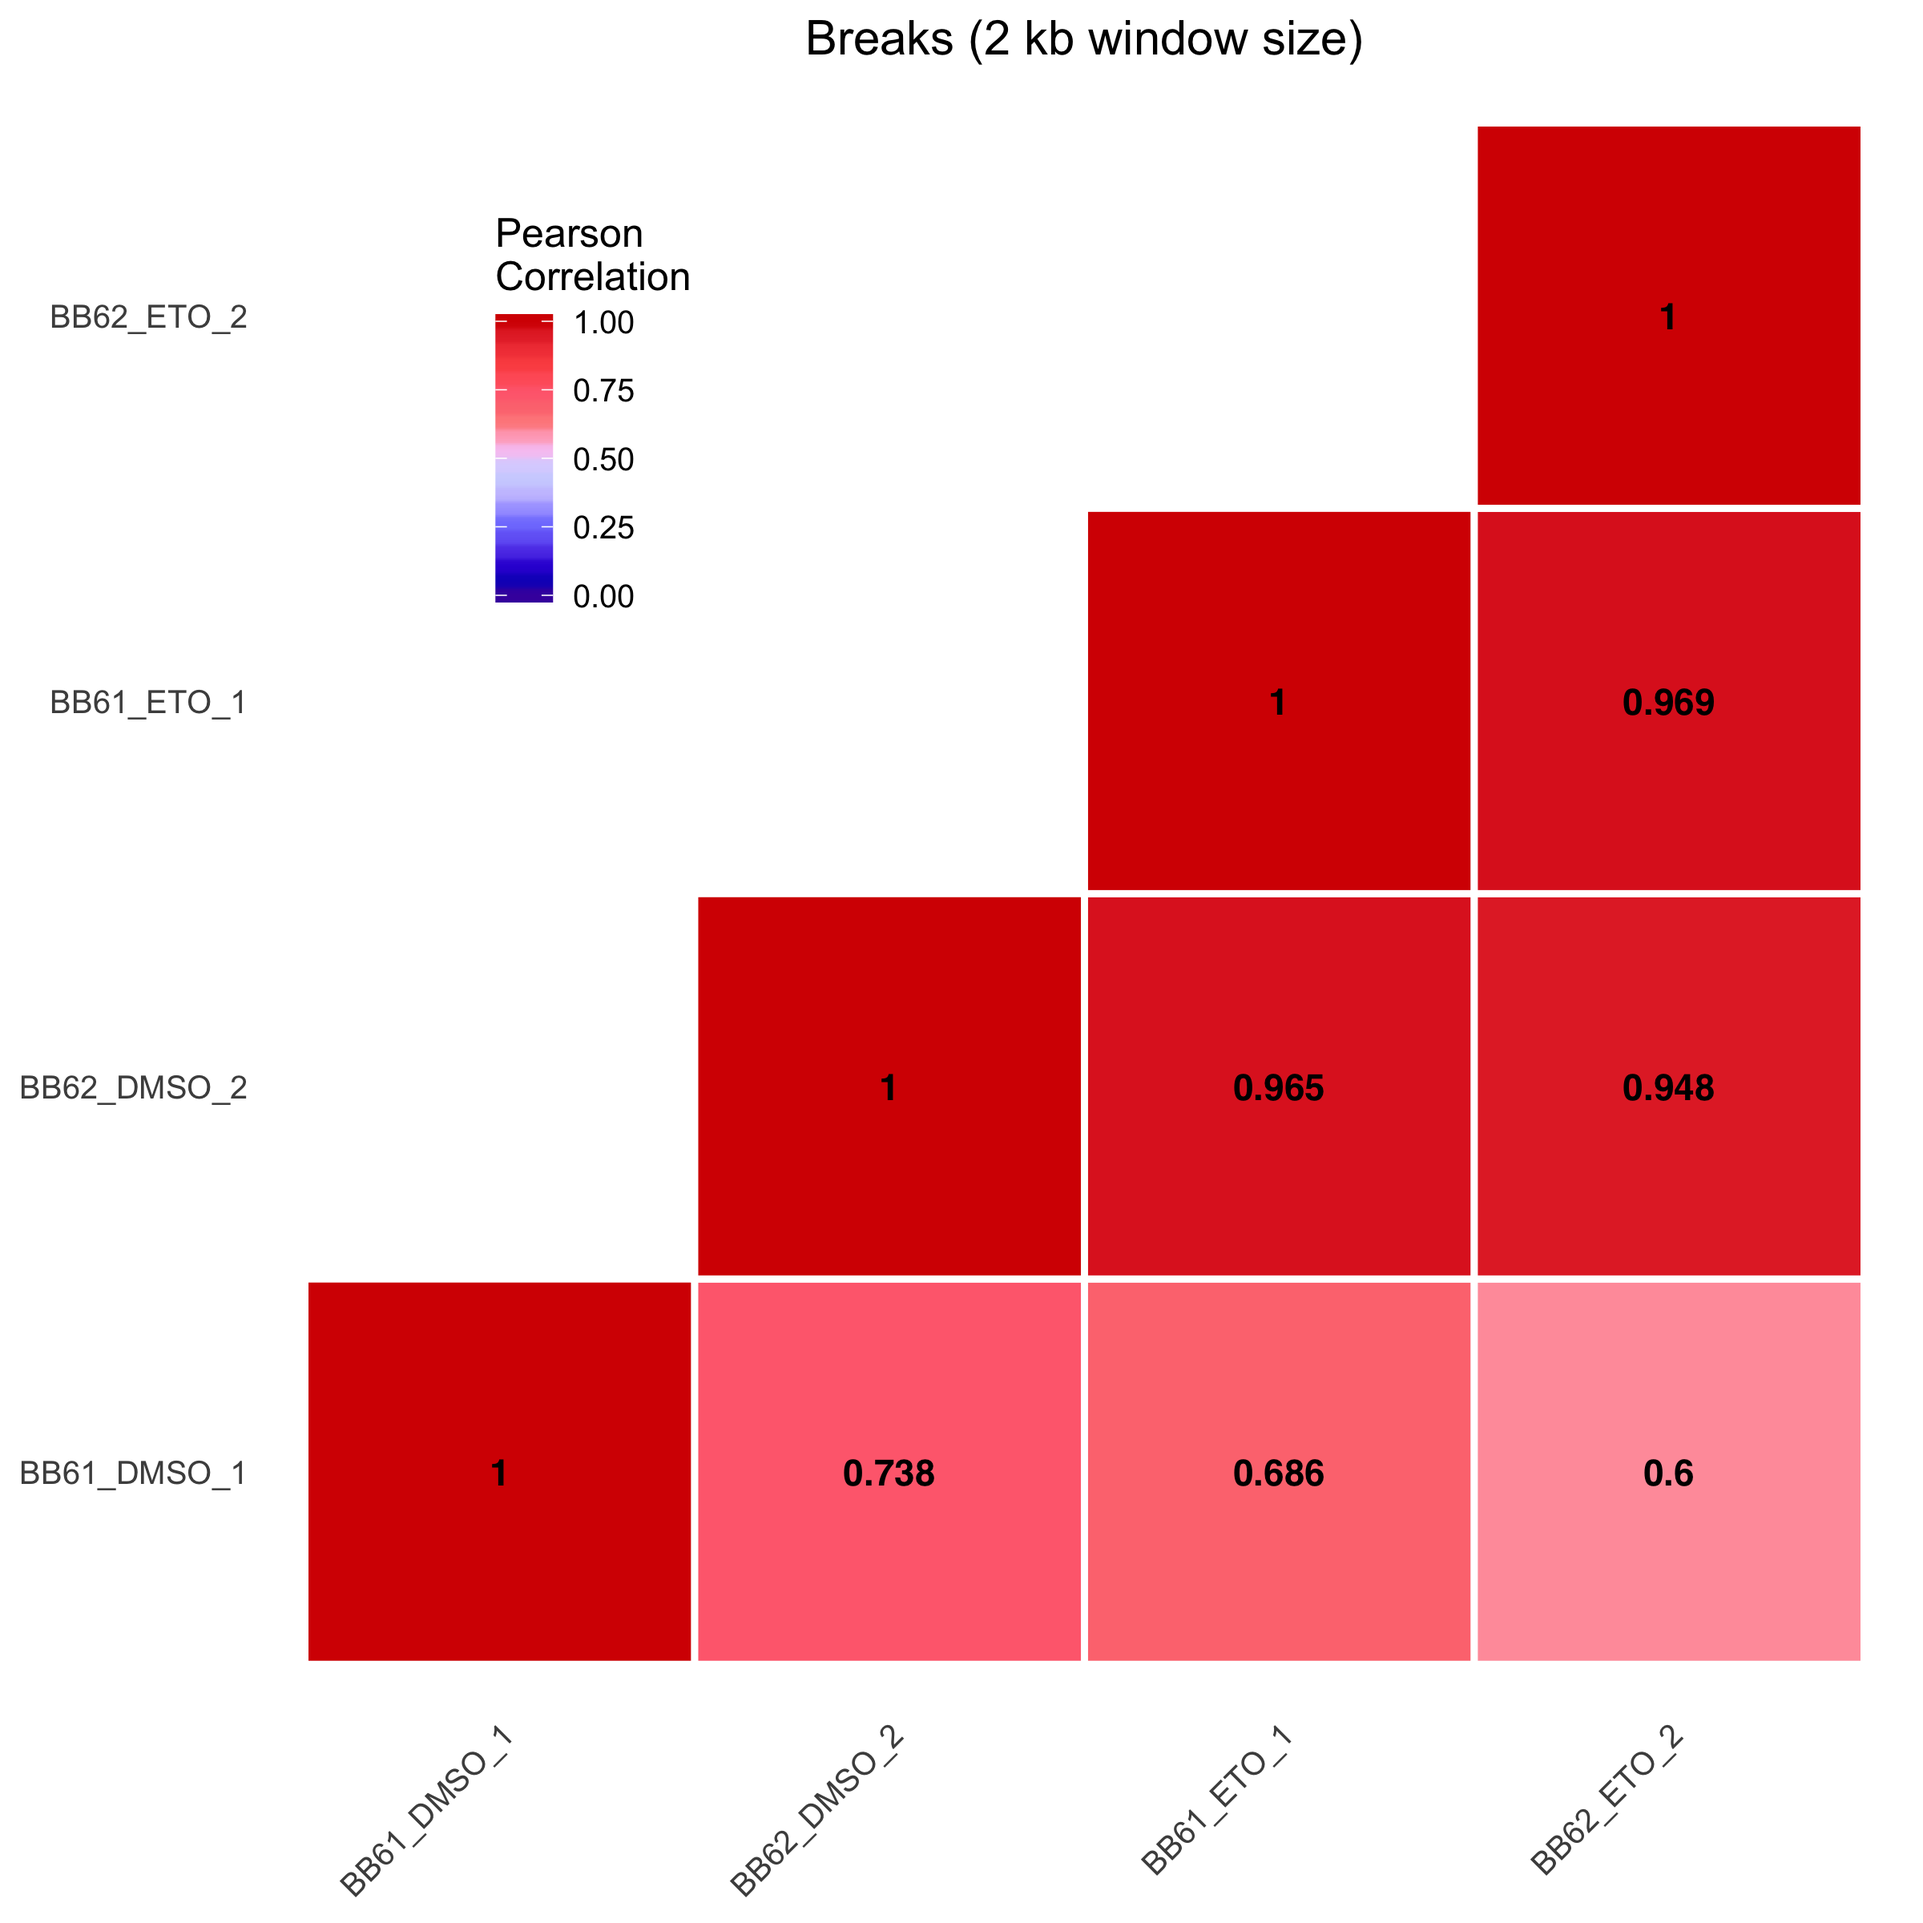
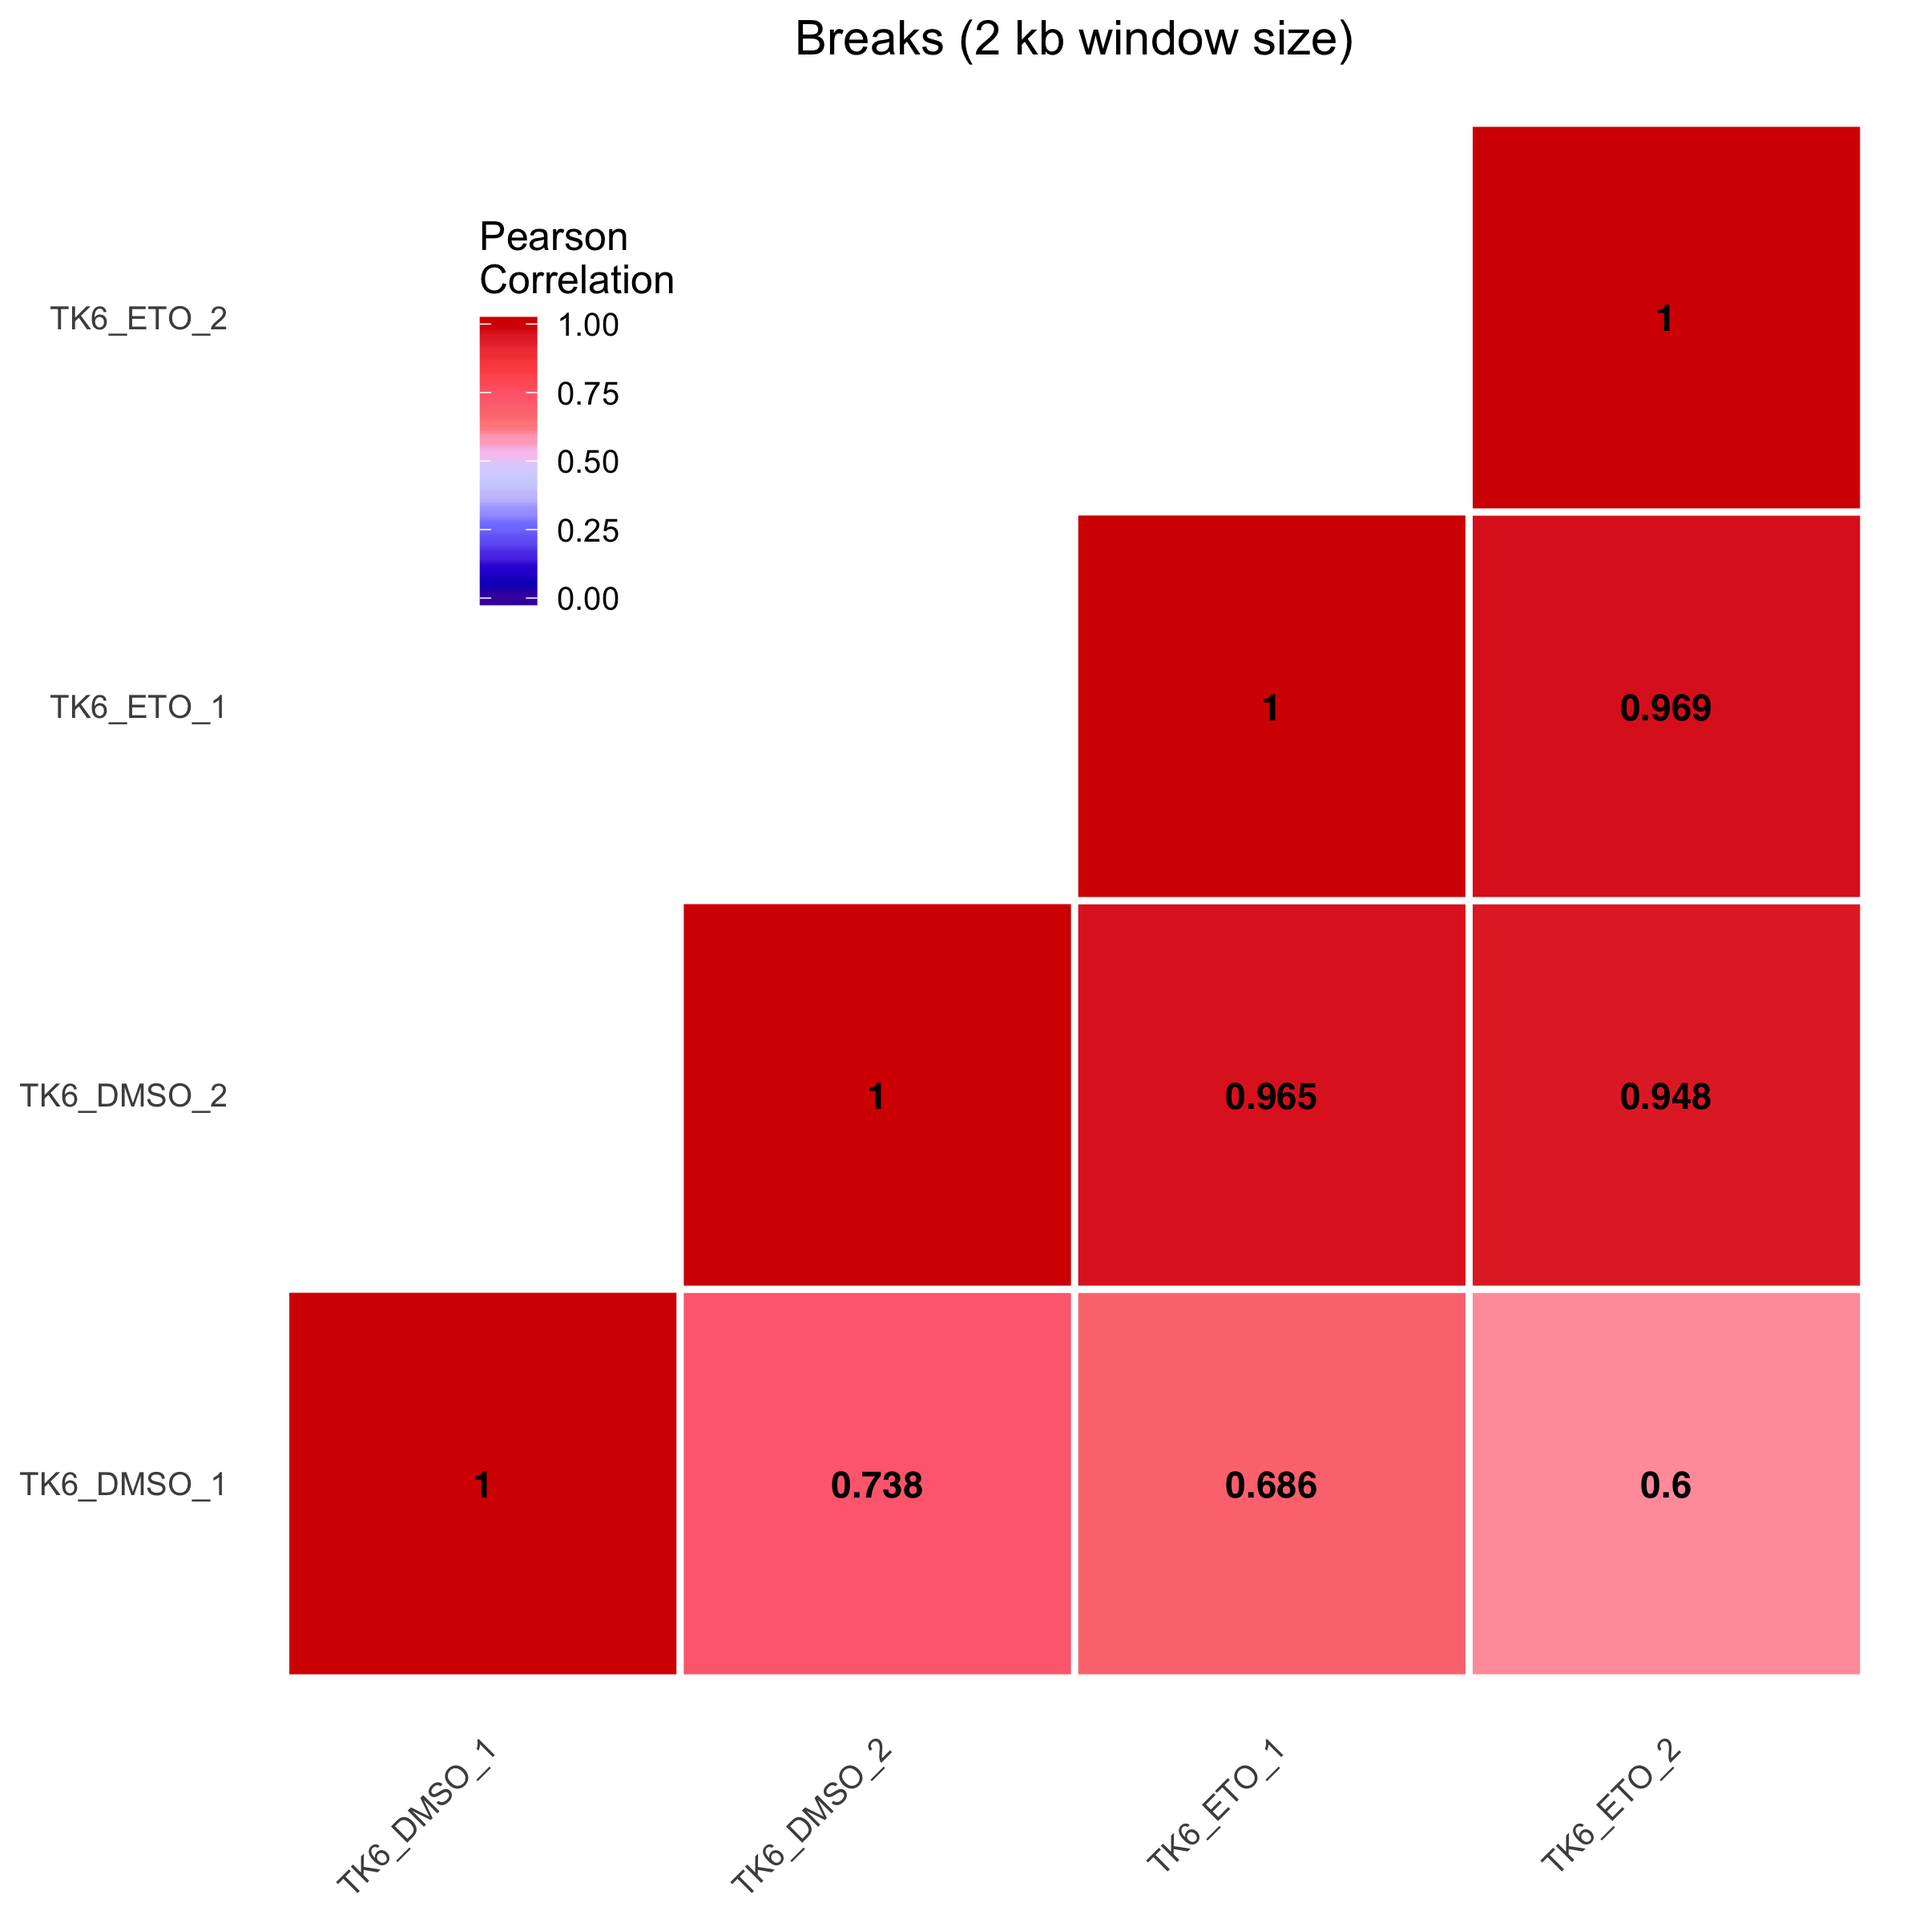
Updated names and circos

diff --git a/README_human.md b/README_human.md
@@ -1,4 +1,4 @@
-Tutorial on BLISS Downstream Analysis (human)
+Tutorial on sBLISS Downstream Analysis (human)
 ================
 
 Step 1: Load the required packages:
@@ -53,8 +53,8 @@ Step 3: Prepare the sample table, which will be our internal reference,
 and make sure the paths and filenames are correct:
 
 ``` r
-sampleTable = data.table(name = c("BB61_DMSO_1", "BB62_DMSO_2", "BB61_ETO_1", "BB62_ETO_2"),
-                         Experiment = c("BB61", "BB62", "BB61", "BB62"),
+sampleTable = data.table(name = c("TK6_DMSO_1", "TK6_DMSO_2", "TK6_ETO_1", "TK6_ETO_2"),
+                         Batch = c("1", "2", "1", "2"),
                          Treatment = c("DMSO", "DMSO", "ETO", "ETO"),
                          Replicate = c("1", "2", "1", "2"),
                          path=c("./data/BB61_TK6DMSOrep1_CATCACGC_chr-loc-countDifferentUMI.bed.gz",
@@ -74,7 +74,7 @@ blacklist = fread(cmd=paste("gunzip -c", blacklist),
 blacklist[, `:=`(seqnames = gsub("chr", "", seqnames),  start = start+1, end = end+1)]
 setkeyv(blacklist, colnames(blacklist))
 
-# Load the BLISS samples
+# Load the sBLISS samples
 data = lapply(with(sampleTable, setNames(path, name)), 
               function(x){
                   tmp = fread(cmd=paste("gunzip -c", x), showProgress=FALSE,
@@ -98,7 +98,7 @@ pl = rbindlist(data, idcol="name")
 pl = pl[, lapply(breaks, function(x) .SD[score>=x, .N]), by="name"]
 pl = melt.data.table(pl, id.vars="name")
 pl[, variable := as.numeric(gsub("V", "", variable))]
-pl[, c("Experiment", "Treatment", "Replicate") := tstrsplit(name, "_")]
+pl[, c("Batch", "Treatment", "Replicate") := tstrsplit(name, "_")]
 
 fig1a = ggplot(pl, aes(x=variable, y=value, col=Treatment, shape=Replicate)) +
     ggtitle("TK6 Cells") +
@@ -261,36 +261,41 @@ pl = lapply(data,
 
 pl = lapply(pl,
             function(x){
-                x[, cpm := count/sum(count)*1e6]
-                x[cpm>1e3, cpm := 1e3]
-                return(x[, .(chr=paste0("chr", seqnames), start, end, value = cpm)])
-                })
+                M = mean(x[, count])
+                SD = sd(x[, count])
+                x[, value := count]
+                x[value>(M+3*SD), value := (M+3*SD)]
+                return(x[, .(chr=paste0("chr", seqnames), start, end, value)])
+            })
+
 
 png(filename=file.path("images", "fig1d_human.png"), units="in", width=8, height=8, res=300)
     sel_col = get_palette("Paired", nrow(sampleTable))
     lab_col = c()
+    toplim = ceiling(max(sapply(pl, function(x) x[, max(value)]))/1e3)*1e3
     i = 1
     circos.initializeWithIdeogram(species = genome, chromosome.index = paste0("chr", chromosomes))
-    for( treatment in sampleTable[, rev(unique(Treatment))] ){
-        circos.track(factors=paste0("chr", chromosomes), ylim=c(0, 1000), track.height = 0.1)
+    for( batch in sampleTable[, unique(Batch)] ){
+        circos.track(factors=paste0("chr", chromosomes), ylim=c(0, toplim), track.height = 0.15)
         ii = 1
-        for( id in sampleTable[Treatment==treatment, name] ){
+        for( id in sampleTable[Batch==batch, name] ){
             for( chrom in pl[[id]][, unique(chr)] )
-            circos.genomicLines(region=pl[[id]][chr==chrom,], value=pl[[id]][chr==chrom,],
-                                numeric.column=4, col = sel_col[2*(i-1)+ii], track.index=i+2,
-                                sector.index=chrom)
+                circos.genomicLines(region=pl[[id]][chr==chrom,], value=pl[[id]][chr==chrom,],
+                                    numeric.column=4, col = sel_col[2*(i-1)+ii], track.index=i+2,
+                                    sector.index=chrom)
             ii = ii+1
-            lab_col = append(lab_col, paste(treatment, sampleTable[name==id, Replicate]))
+            treatment = paste(strsplit(id, "_")[[1]][2:3], collapse="_")
+            lab_col = append(lab_col, treatment)
         }
         i = i+1
     }
     text(0, 0, "TK6\nDSBs Genomic Profile", cex = 0.8)
     lgd_lines = Legend(at = lab_col, type = "lines", 
-                   legend_gp = gpar(col = sel_col, lwd = 2, fill="white"),
-                   direction = "horizontal", nrow = 1)
+                       legend_gp = gpar(col = sel_col, lwd = 2, fill="white"),
+                       direction = "horizontal", nrow = 1)
     draw(packLegend(lgd_lines), y = unit(6, "mm"), just = "center")
     circos.clear()
-invisible(dev.off())
+dev.off()
 ```
 
 | ![](images/fig1d_human.png) |

diff --git a/README_mouse.md b/README_mouse.md
@@ -1,4 +1,4 @@
-Tutorial on BLISS Downstream Analysis (mouse)
+Tutorial on sBLISS Downstream Analysis (mouse)
 ================
 
 Step 1: Load the required packages:
@@ -53,9 +53,9 @@ Step 3: Prepare the sample table, which will be our internal reference,
 and make sure the paths and filenames are correct:
 
 ``` r
-sampleTable = data.table(name = c("BB70_neg_rep1", "BB70_mid_rep1", "BB70_high_rep1",
-                                  "BB72_neg_rep2", "BB72_mid_rep2", "BB72_high_rep2"),
-                        Experiment = rep(c("BB70", "BB72"), each=3),
+sampleTable = data.table(name = c("Epatocyte_neg_rep1", "Epatocyte_mid_rep1", "Epatocyte_high_rep1",
+                                  "Epatocyte_neg_rep2", "Epatocyte_mid_rep2", "Epatocyte_high_rep2"),
+                        Batch = rep(c("1", "2"), each=3),
                         Treatment = rep(c("neg", "mid", "high"), 2),
                         Replicate = rep(c("1", "2"), each=3),
                         path=c("./data/BB70_CD73negM1E2911_GTCGTCGC_chr-loc-countDifferentUMI.bed.gz",
@@ -77,7 +77,7 @@ blacklist = fread(cmd=paste("gunzip -c", blacklist),
 blacklist[, `:=`(seqnames = gsub("chr", "", seqnames),  start = start+1, end = end+1)]
 setkeyv(blacklist, colnames(blacklist))
 
-# Load the BLISS samples
+# Load the sBLISS samples
 data = lapply(with(sampleTable, setNames(path, name)), 
               function(x){
                   tmp = fread(cmd=paste("gunzip -c", x), showProgress=FALSE,
@@ -102,7 +102,7 @@ pl = rbindlist(data, idcol="name")
 pl = pl[, lapply(breaks, function(x) .SD[score>=x, .N]), by="name"]
 pl = melt.data.table(pl, id.vars="name")
 pl[, variable := as.numeric(gsub("V", "", variable))]
-pl[, c("Experiment", "Treatment", "Replicate") := tstrsplit(name, "_")]
+pl[, c("Batch", "Treatment", "Replicate") := tstrsplit(name, "_")]
 
 fig1a = ggplot(pl, aes(x=variable, y=value, col=Treatment, shape=Replicate)) +
     ggtitle("Enterocytes") +
@@ -260,26 +260,30 @@ pl = lapply(data,
 
 pl = lapply(pl,
             function(x){
-                x[, cpm := count/sum(count)*1e6]
-                x[cpm>1e3, cpm := 1e3]
-                return(x[, .(chr=paste0("chr", seqnames), start, end, value = cpm)])
-                })
+                M = mean(x[, count])
+                SD = sd(x[, count])
+                x[, value := count]
+                x[value>(M+3*SD), value := (M+3*SD)]
+                return(x[, .(chr=paste0("chr", seqnames), start, end, value)])
+            })
 
 png(filename=file.path("images", "fig1d_mouse.png"), units="in", width=8, height=8, res=300)
-    sel_col = get_palette("Paired", nrow(sampleTable))
+    sel_col = get_palette("Paired", nrow(sampleTable))[c(2,4,6,1,3,5)]
+    toplim = ceiling(max(sapply(pl, function(x) x[, max(value)]))/1e3)*1e3
     lab_col = c()
     i = 1
     circos.initializeWithIdeogram(species = genome, chromosome.index = paste0("chr", chromosomes))
-    for( treatment in sampleTable[, rev(unique(Treatment))] ){
-        circos.track(factors=paste0("chr", chromosomes), ylim=c(0, 1000), track.height = 0.1)
+    for( batch in sampleTable[, unique(Batch)] ){
+        circos.track(factors=paste0("chr", chromosomes), ylim=c(0, toplim), track.height = 0.15)
         ii = 1
-        for( id in sampleTable[Treatment==treatment, name] ){
+        for( id in sampleTable[Batch==batch, name] ){
             for( chrom in pl[[id]][, unique(chr)] )
-            circos.genomicLines(region=pl[[id]][chr==chrom,], value=pl[[id]][chr==chrom,],
-                                numeric.column=4, col = sel_col[2*(i-1)+ii], track.index=i+2,
-                                sector.index=chrom)
+                circos.genomicLines(region=pl[[id]][chr==chrom,], value=pl[[id]][chr==chrom,],
+                                    numeric.column=4, col = sel_col[3*(i-1)+ii], track.index=i+2,
+                                    sector.index=chrom)
             ii = ii+1
-            lab_col = append(lab_col, paste(treatment, sampleTable[name==id, Replicate]))
+            treatment = paste(strsplit(id, "_")[[1]][2:3], collapse="_")
+            lab_col = append(lab_col, treatment)
         }
         i = i+1
     }
